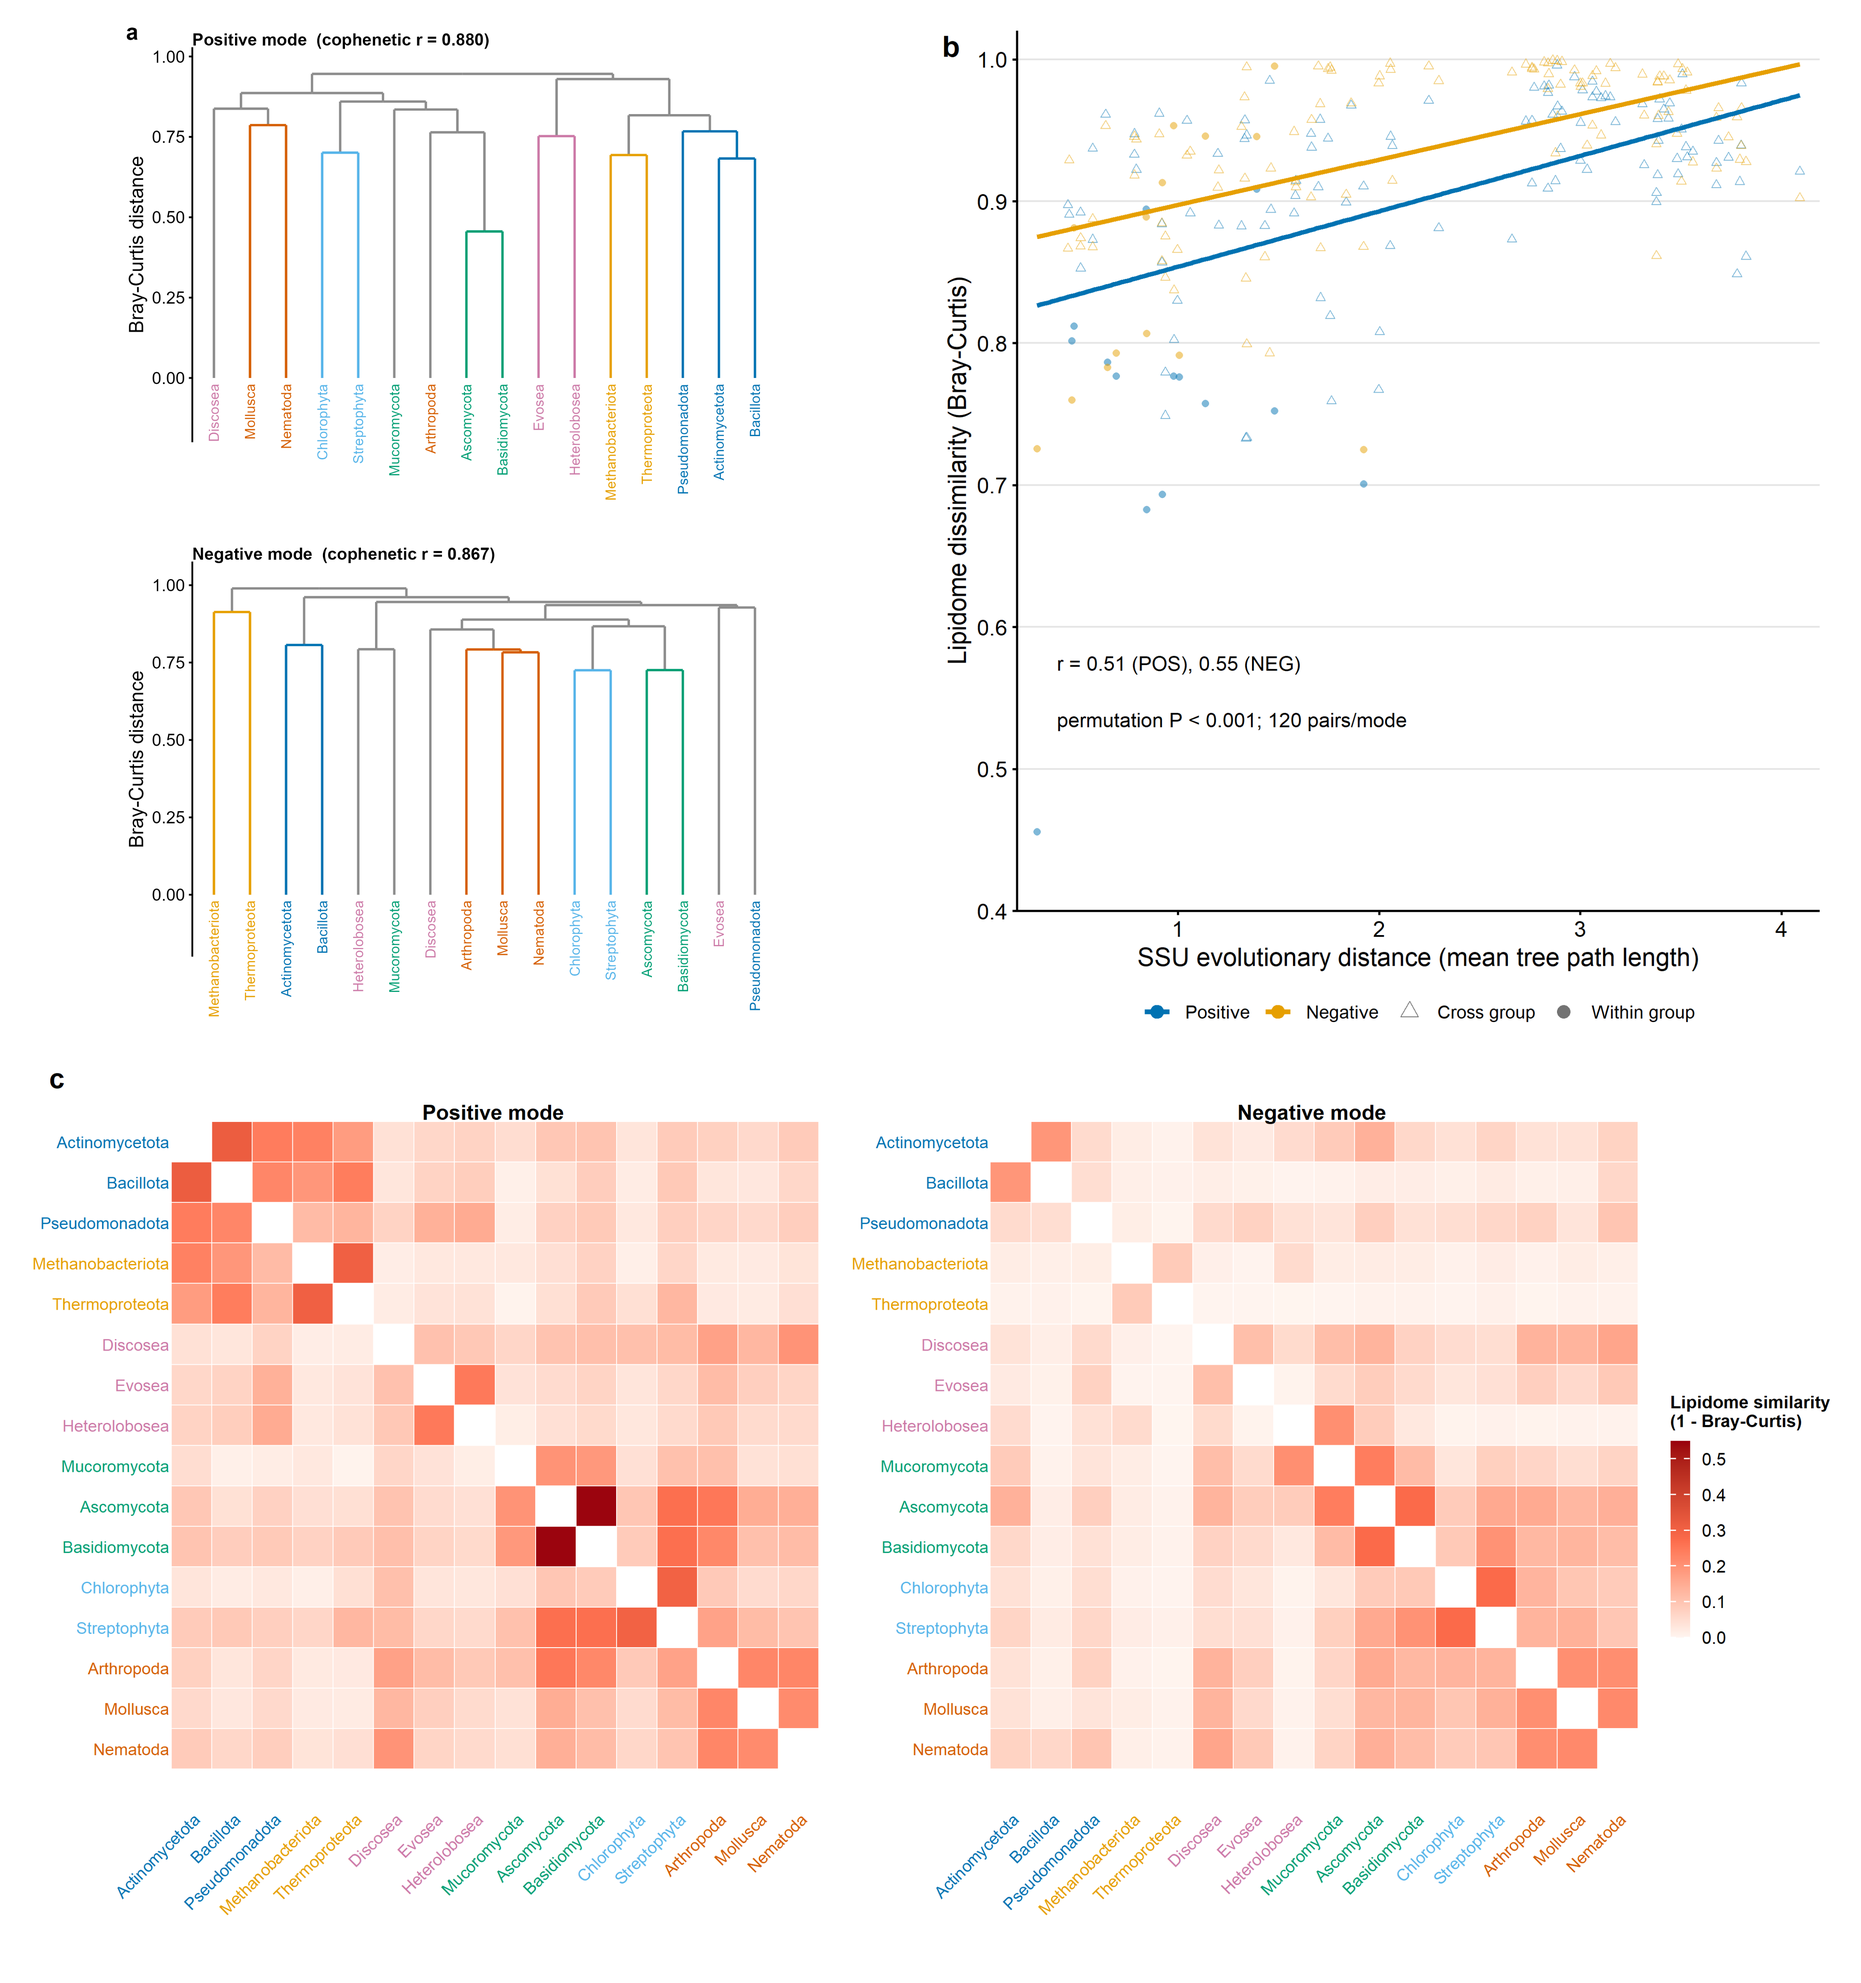
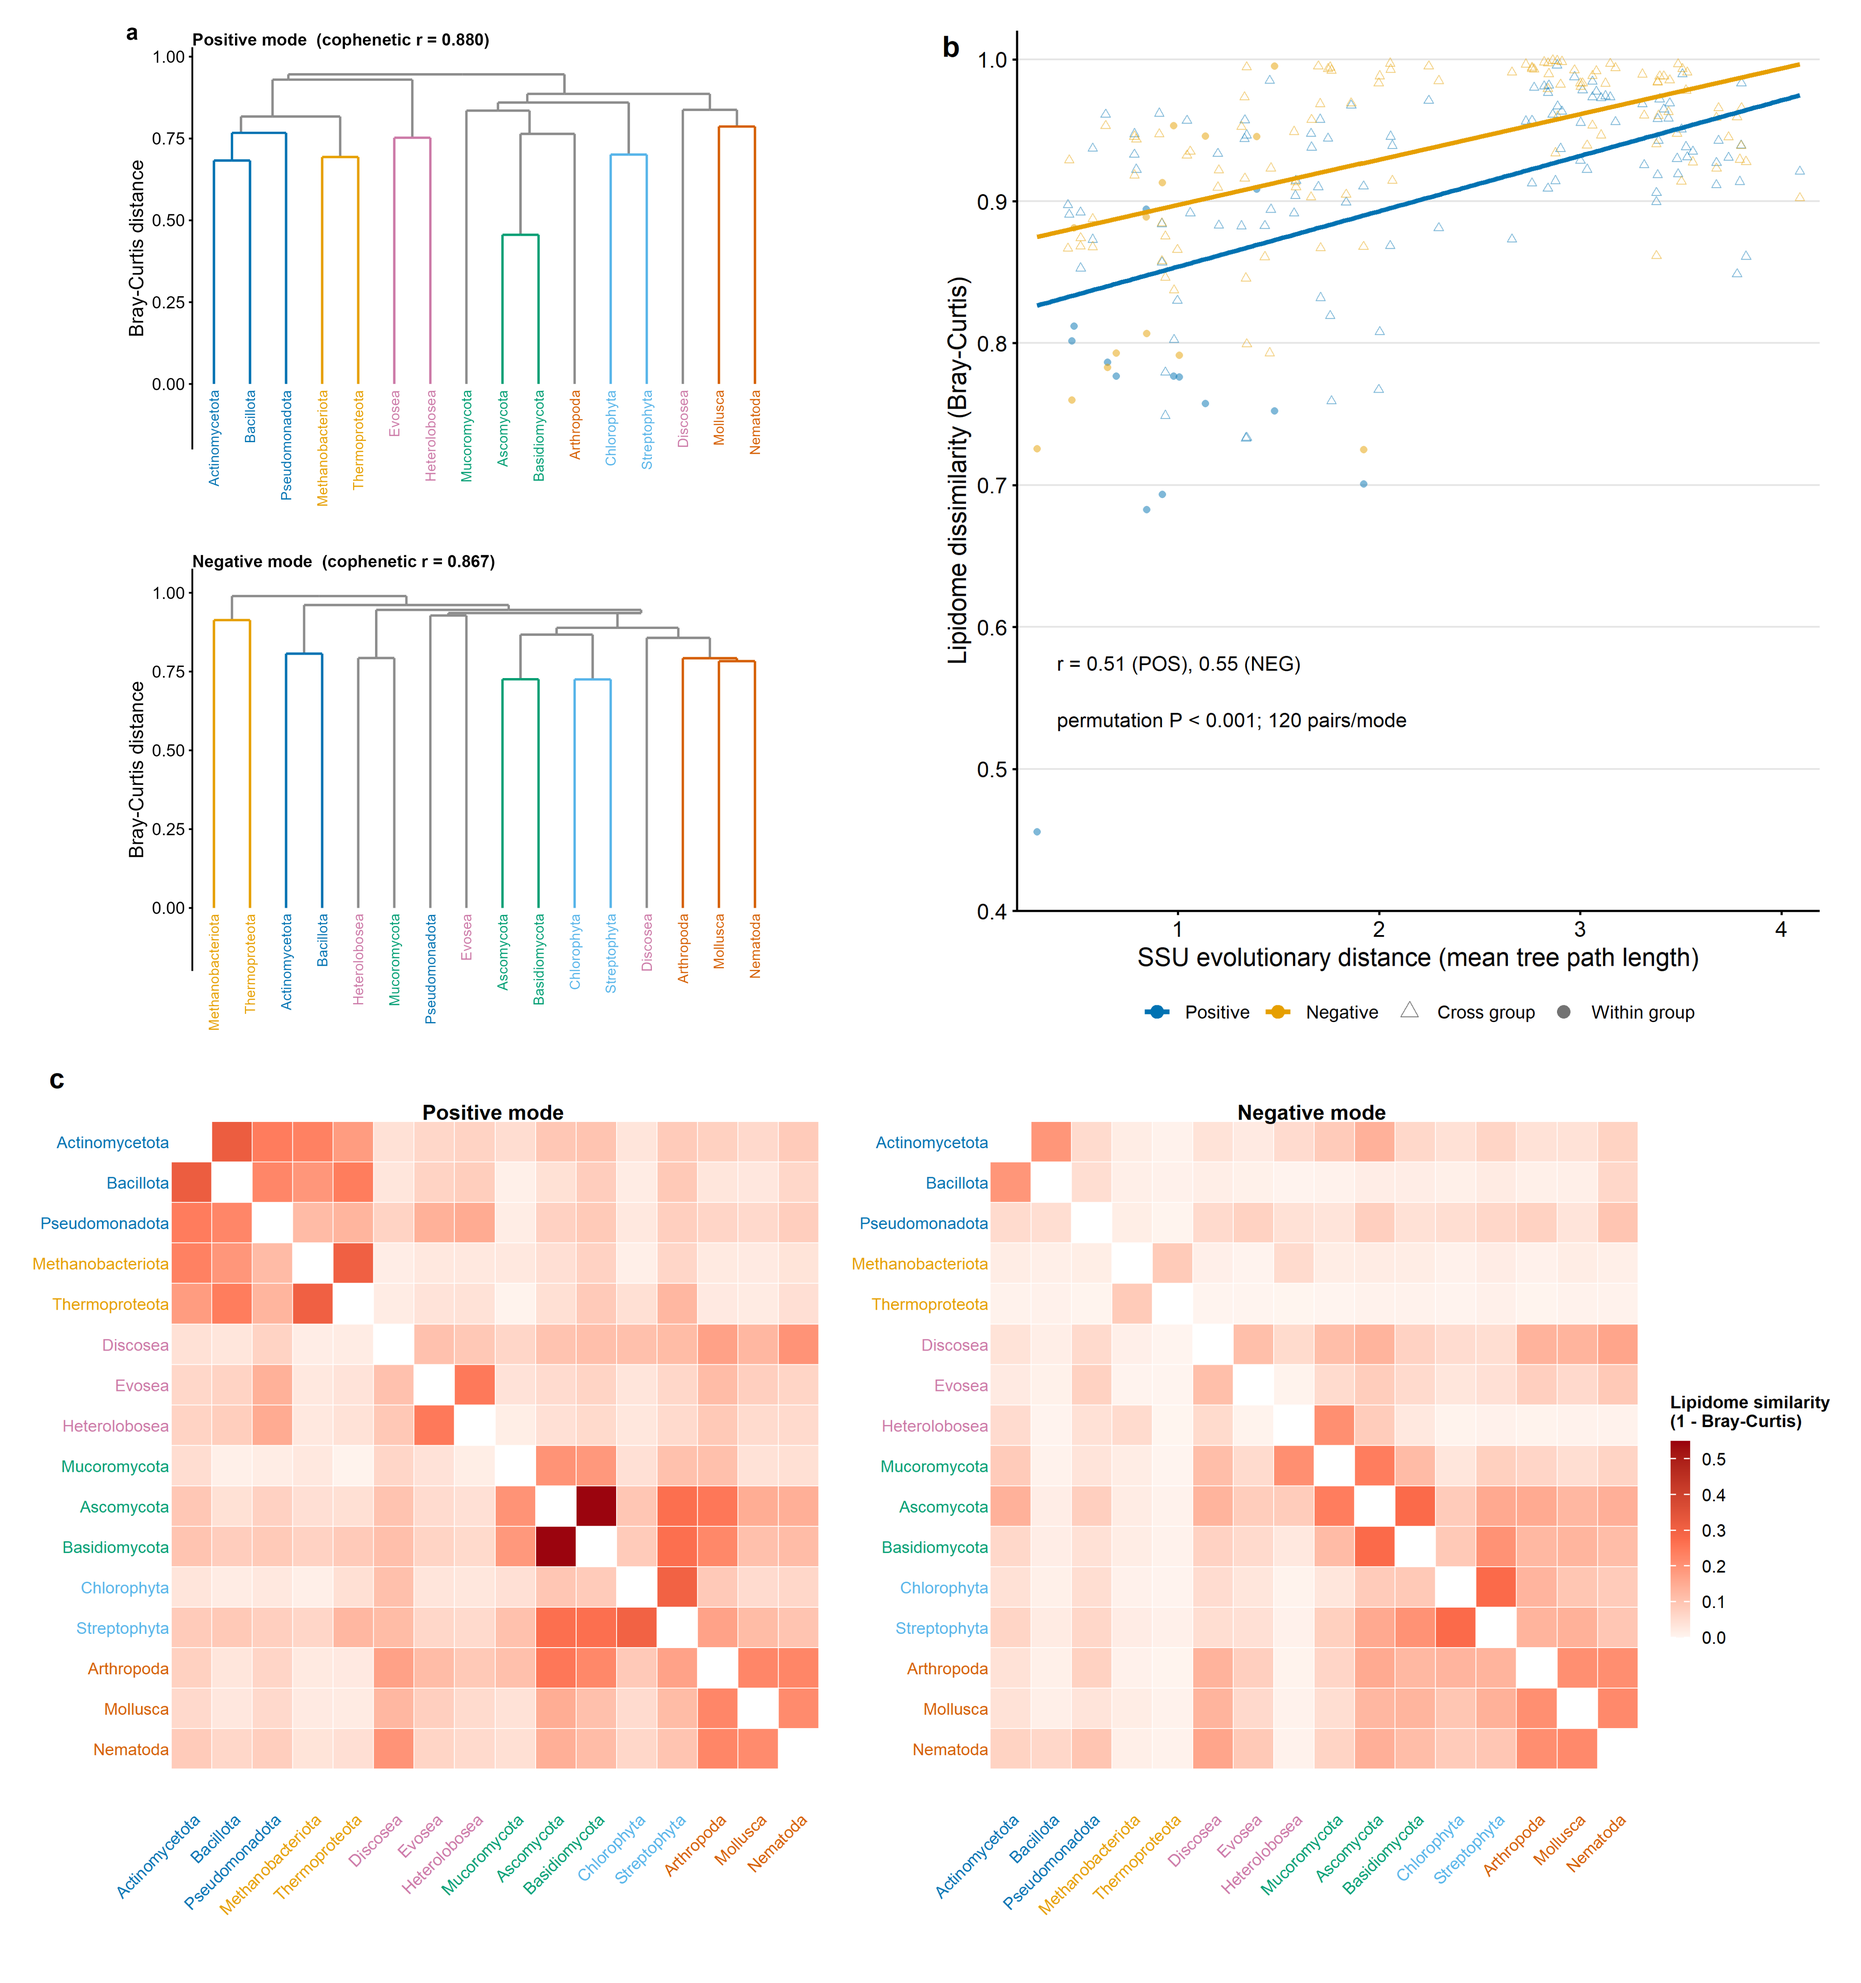
Figure 3: restore rotated panel a so POS and NEG dendrograms are comparable.
The equal-tile-size recomposite of 321dab7 was fed the unrotated
panel_a render, losing the topology-preserving branch rotation
(figure3a_ordered_view_v2, minimum-inversion toward the biological
display order) that the composite had used since 2026-08-05. This
recomposite combines the rotated panel a with the equal-tile panel c;
panel b is unchanged. UPGMA heights and cophenetic r (0.880 POS /
0.867 NEG) are identical; only the display order changed. README now
documents the rotation.

diff --git a/results/figures/figure3/README.md b/results/figures/figure3/README.md
@@ -15,5 +15,12 @@ Methods, accessions, sequences, and the tree:
 Panels a and c use lipids only. Panel b’s x-axis is SSU patristic
 distance, not the five-rank NCBI framework in Table S15.
 
+Panel a dendrogram branches are rotated toward the fixed biological
+display order of `r/data/phyla.csv` (Bacteria → Archaea → Protists →
+Fungi → Viridiplantae → Animalia) so the POS and NEG trees and the
+panel c heatmaps read in a comparable order. Rotation is
+topology-preserving: UPGMA merge heights and cophenetic correlations
+are unchanged.
+
 `figure3_strict_composite_review_only.R` draws the three-panel layout
 (183 × 195 mm). House style: `r/soilmass_style.R`.
